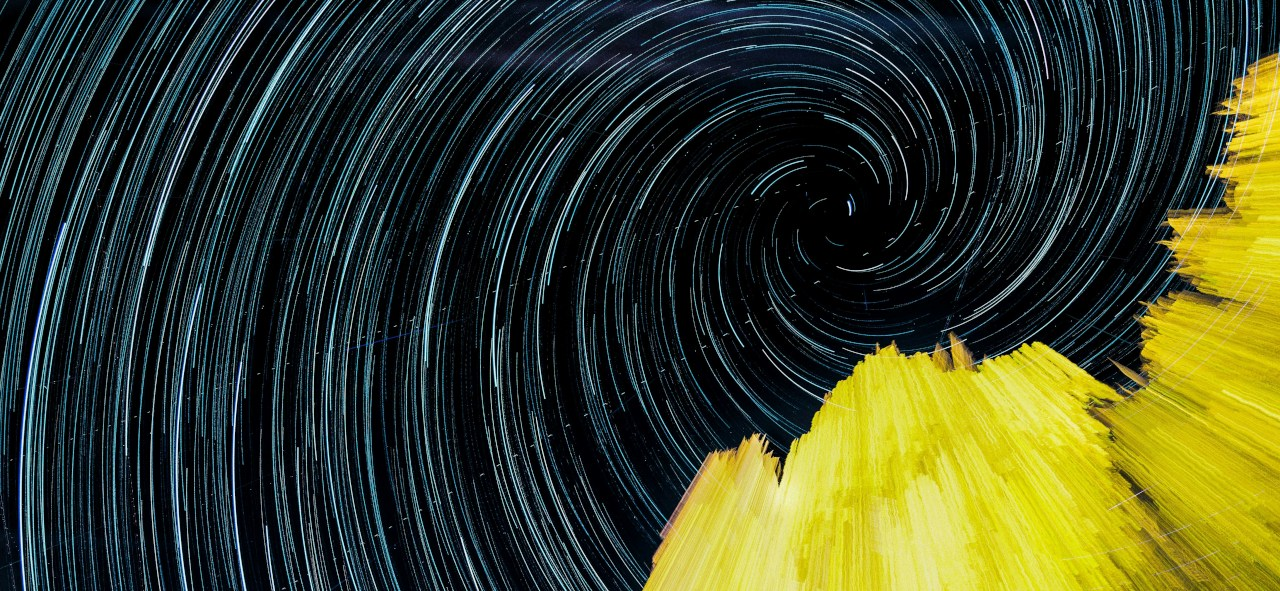
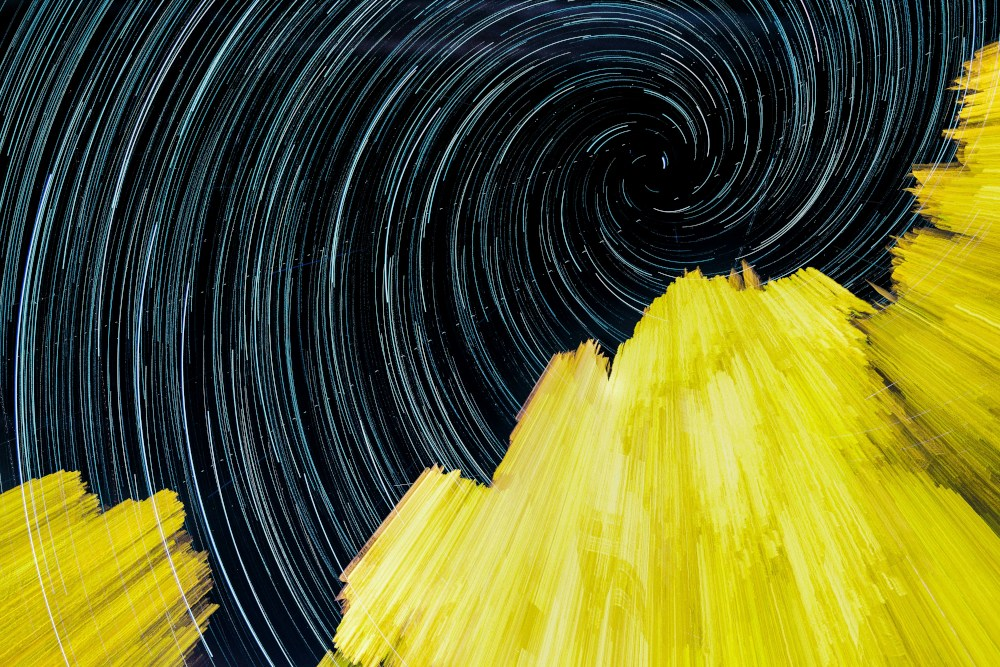
1.1

diff --git a/css/poem.css b/css/poem.css
@@ -139,7 +139,7 @@ strong {
 }
 
 #imgB {
-    background-image: url(../media/img/.jpg);
+    background-image: url(../media/img/f-clock.jpg);
     background-position: bottom left;
 }
 
